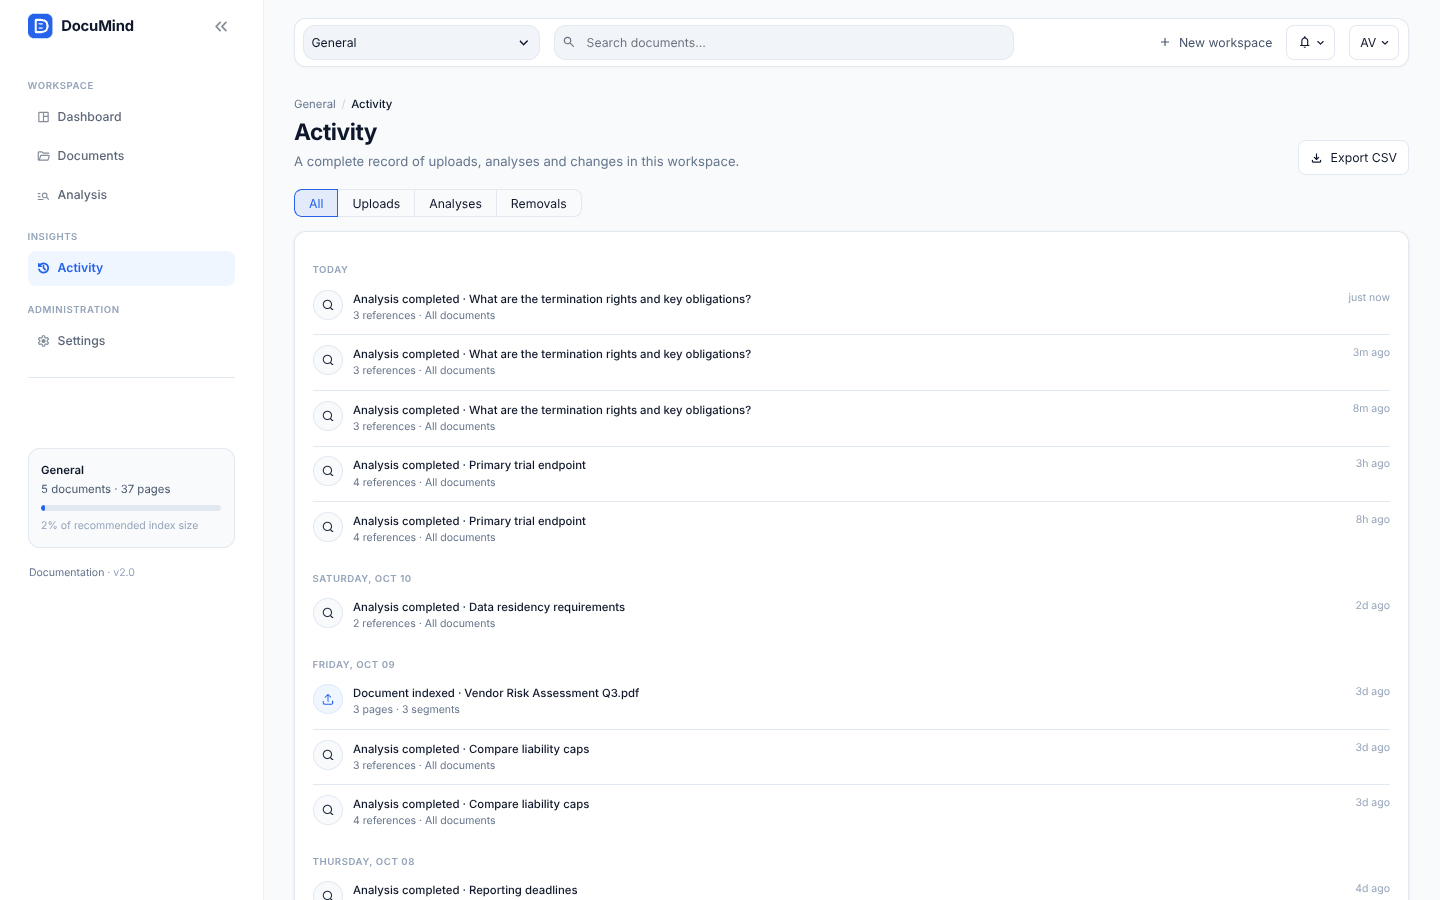
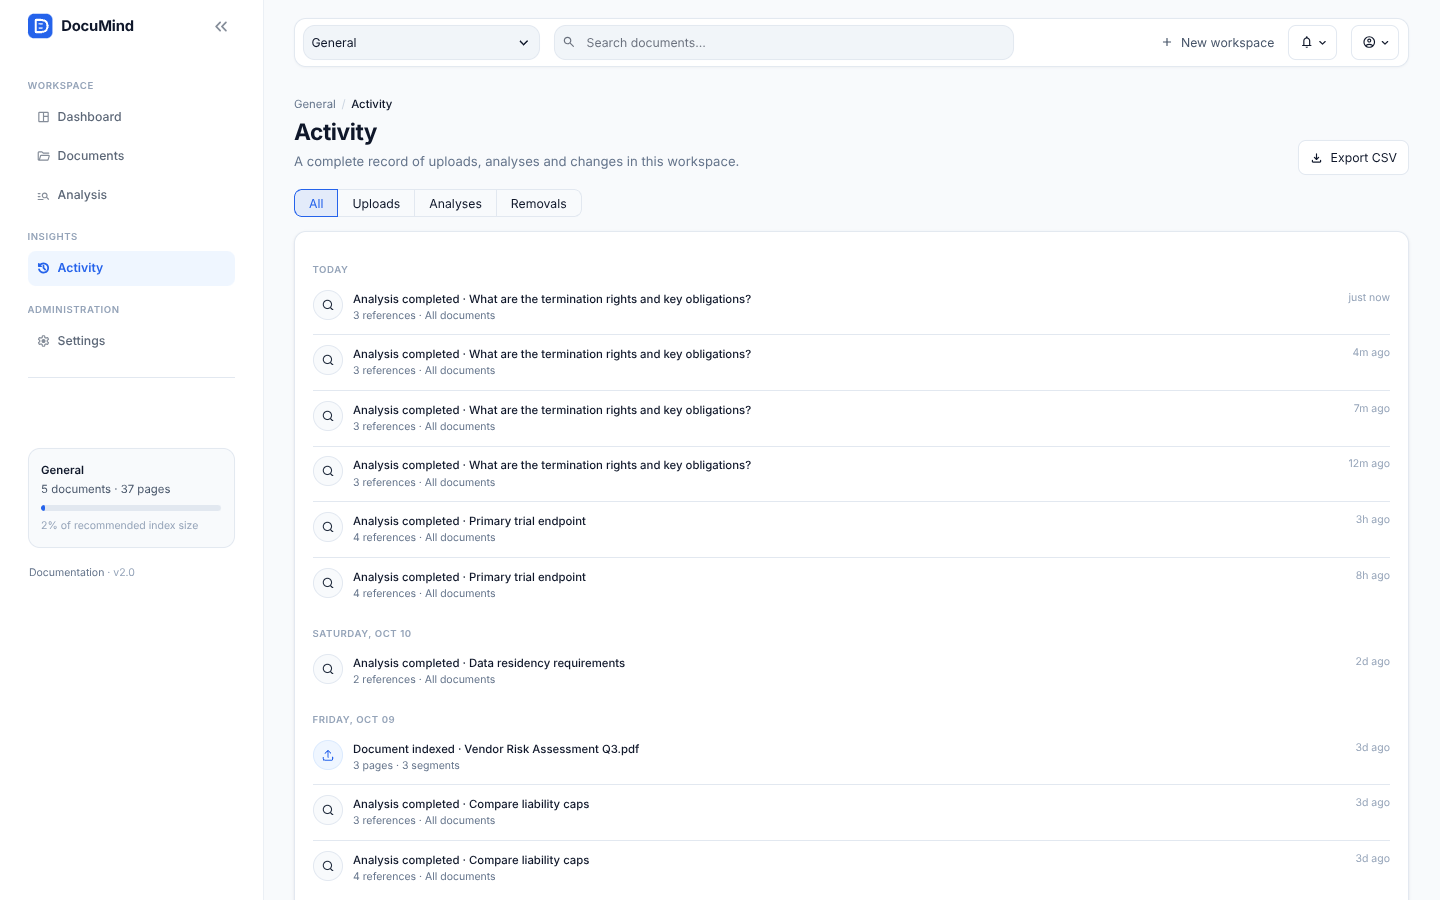
fix: generic, multi-user greeting and profile
Remove the deployment-wide DOCUMIND_USER_NAME setting. The dashboard greets
everyone with "Welcome back" and the profile menu shows a neutral account
icon; a display name is optional and kept per session only. Default role is
"Member". Screenshots retaken.

Claude-Session: https://claude.ai/code/session_01Kgjixy9g4qFLTb9oP1y68R

diff --git a/src/documind/ui/views/settings.py b/src/documind/ui/views/settings.py
@@ -21,13 +21,13 @@ def render() -> None:
     general, model, retrieval, workspace = st.tabs(["General", "Assistant model", "Retrieval", "Workspace"])
 
     with general, st.container(key="card-set-general"):
-        card_title("Profile", "Shown in the top bar and on the dashboard.")
+        card_title("Profile", "Optional. Applies only to your current session; other users never see it.")
         with st.form("profile", border=False):
             c1, c2 = st.columns(2)
-            name = c1.text_input("Display name", value=p.display_name, max_chars=60)
+            name = c1.text_input("Display name", value=p.display_name, max_chars=60, placeholder="Optional")
             role = c2.text_input("Role", value=p.role, max_chars=60)
             if st.form_submit_button("Save changes", type="primary"):
-                p.display_name, p.role = name.strip() or p.display_name, role.strip() or p.role
+                p.display_name, p.role = name.strip(), role.strip() or p.role
                 st.toast("Profile updated", icon=":material/check_circle:")
                 st.rerun()
 

diff --git a/src/documind/ui/state.py b/src/documind/ui/state.py
@@ -2,9 +2,8 @@
 
 from __future__ import annotations
 
-import os
 import re
-from dataclasses import dataclass, field, replace
+from dataclasses import dataclass, replace
 
 import streamlit as st
 
@@ -21,8 +20,8 @@ PAGES: dict[str, st.Page] = {}  # filled by app.py; used for st.switch_page
 
 @dataclass
 class Prefs:
-    display_name: str = field(default_factory=lambda: os.getenv("DOCUMIND_USER_NAME", ""))
-    role: str = "Administrator"
+    display_name: str = ""  # per-session and optional; the app greets everyone generically by default
+    role: str = "Member"
     provider: str = ""
     model: str = ""
     top_k: int = 5

diff --git a/docs/DEPLOYMENT.md b/docs/DEPLOYMENT.md
@@ -61,7 +61,6 @@ docker run -p 8501:8501 --env-file .env -v documind-data:/app/data documind
    ```toml
    GROQ_API_KEY = "gsk_..."
    LLM_PROVIDER = "groq"
-   DOCUMIND_USER_NAME = "Your Name"   # optional: greeting + profile menu
    ```
    `app.py` copies secrets into environment variables, so no code changes are needed.
 5. Deploy. Copy the `*.streamlit.app` URL into the README's **Live demo** link.

diff --git a/README.md b/README.md
@@ -156,7 +156,6 @@ Settings come from environment variables (`.env`, shell, or Streamlit secrets). 
 | `TOP_K` / `SEARCH_TYPE` | `5` / `mmr` | Default retrieval behaviour |
 | `CHROMA_PERSIST_DIR` | `./data/chroma` | Index storage |
 | `CHROMA_COLLECTION` | `general` | Default workspace |
-| `DOCUMIND_USER_NAME` | — | Name shown in the greeting and profile menu |
 
 ## Testing
 
